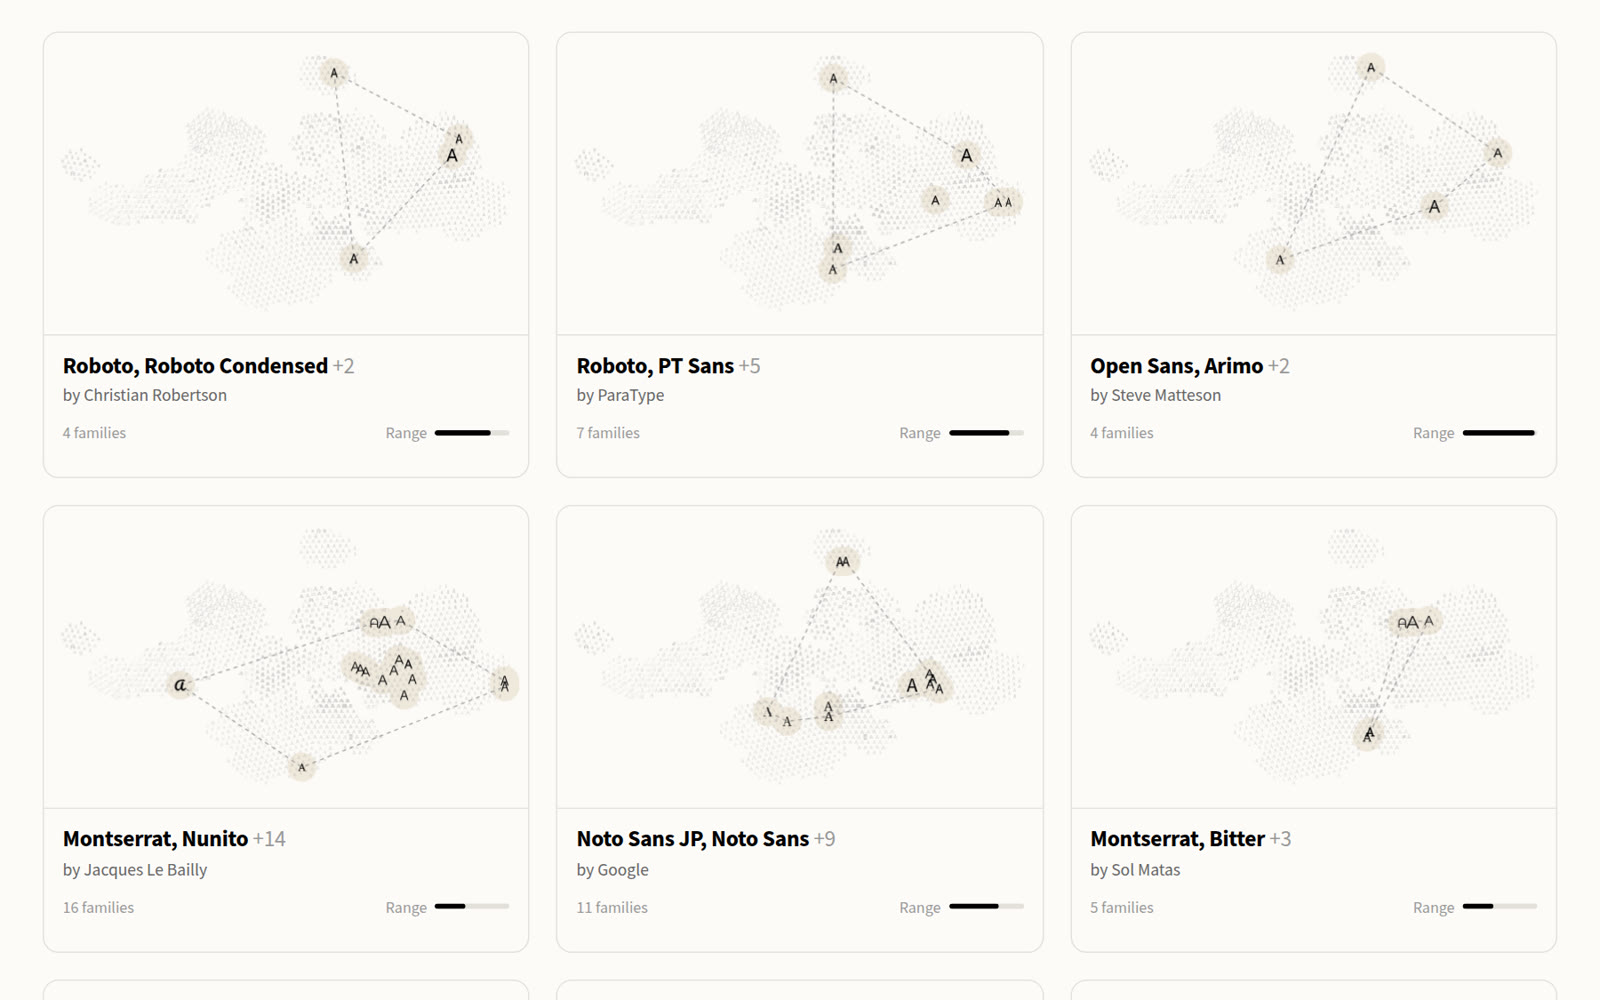
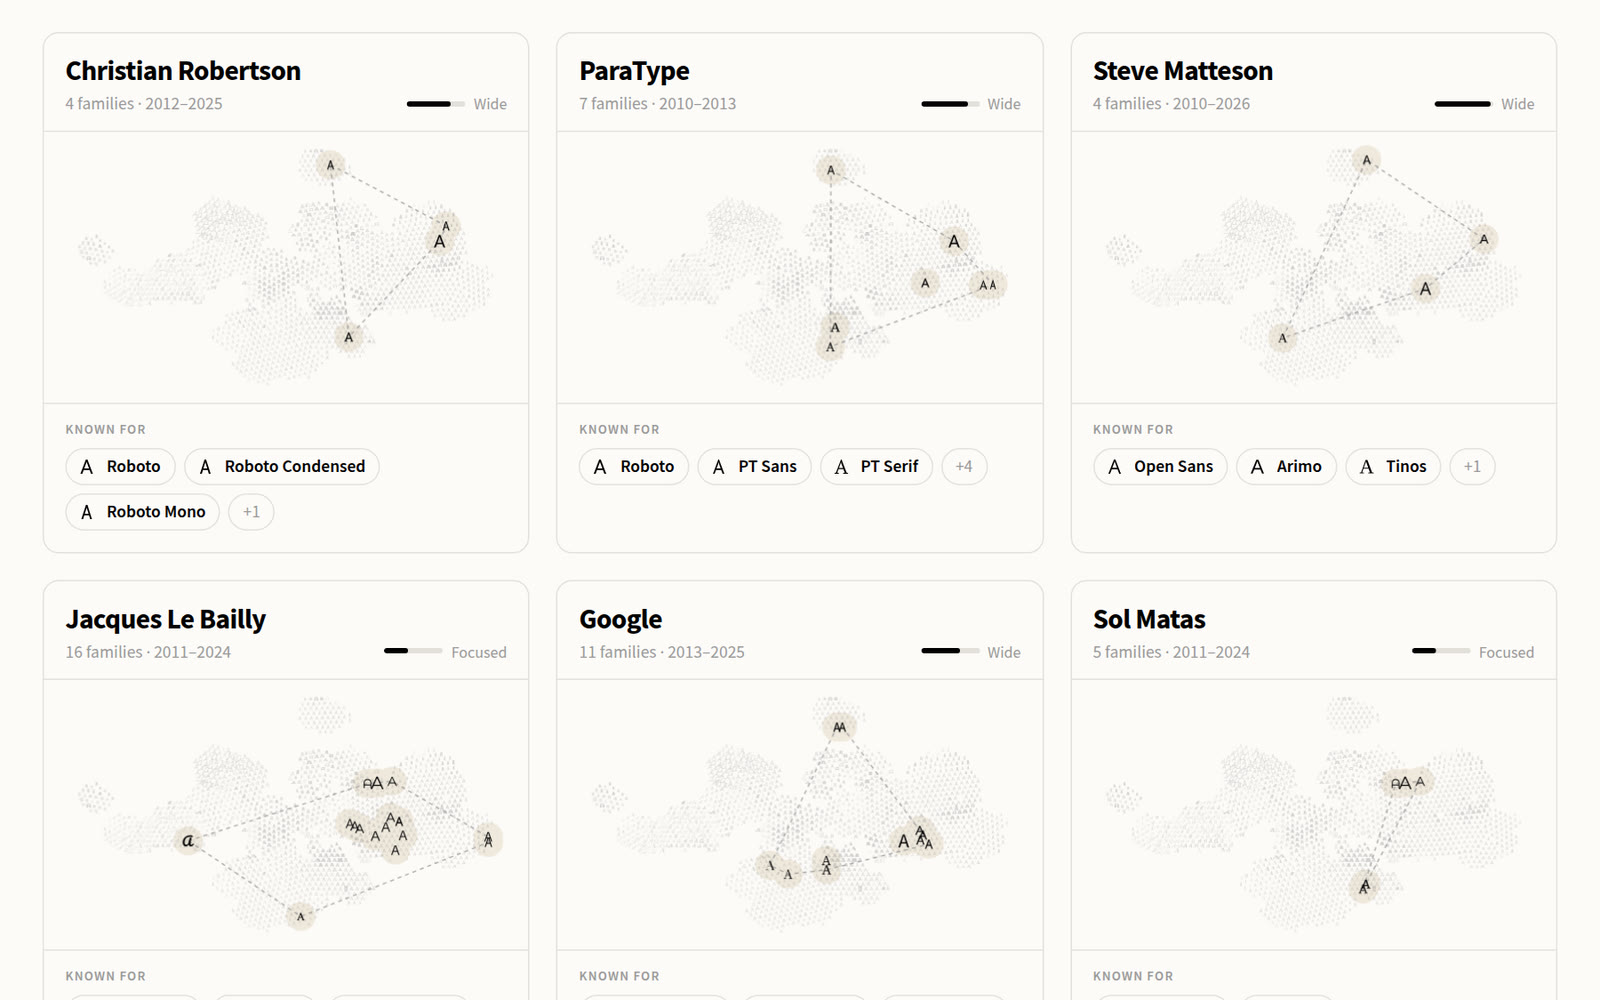
Experiments index: position the hero canvas, refresh the designers thumbnail

diff --git a/src/experiments/pages/Designers.js b/src/experiments/pages/Designers.js
@@ -53,7 +53,7 @@ export default function Designers() {
           <h1>Who drew the fonts<br /><em>you know?</em></h1>
           <p className="gallery-lede">
             Google Fonts credits <strong id="designer-count">632</strong> designers and foundries. Each card is one of
-            them: their name, where their fonts sit on the map (in black, the ground they cover shaded) and the fonts
+            them: their name, where their fonts sit on the map with the ground they cover shaded, and the fonts
             you probably know them for. Some range over every style; others never leave one corner.
           </p>
         </header>

diff --git a/src/experiments/pages/ExperimentsIndex.js b/src/experiments/pages/ExperimentsIndex.js
@@ -53,7 +53,7 @@ export default function ExperimentsIndex() {
       </Topbar>
 
       <header className="hero">
-        <canvas ref={heroRef} aria-hidden="true" />
+        <canvas id="hero-map" ref={heroRef} aria-hidden="true" />
         <div className="hero-text">
           <p className="kicker">FontMap · Experiments</p>
           <h1>Other ways to read <em>the&nbsp;map.</em></h1>
